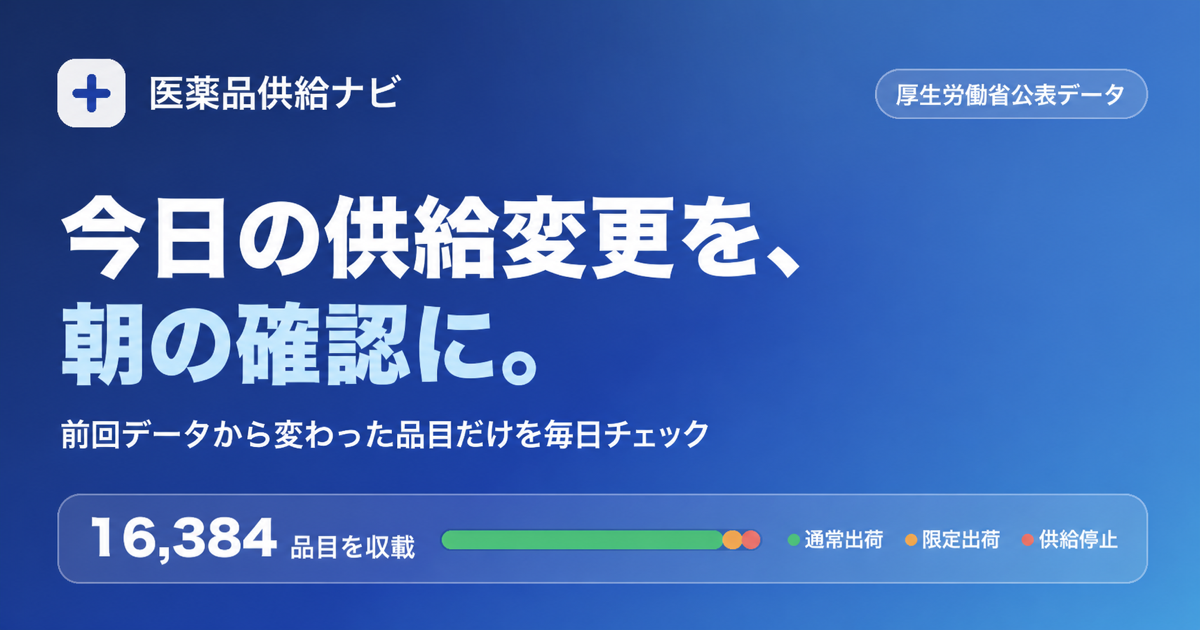
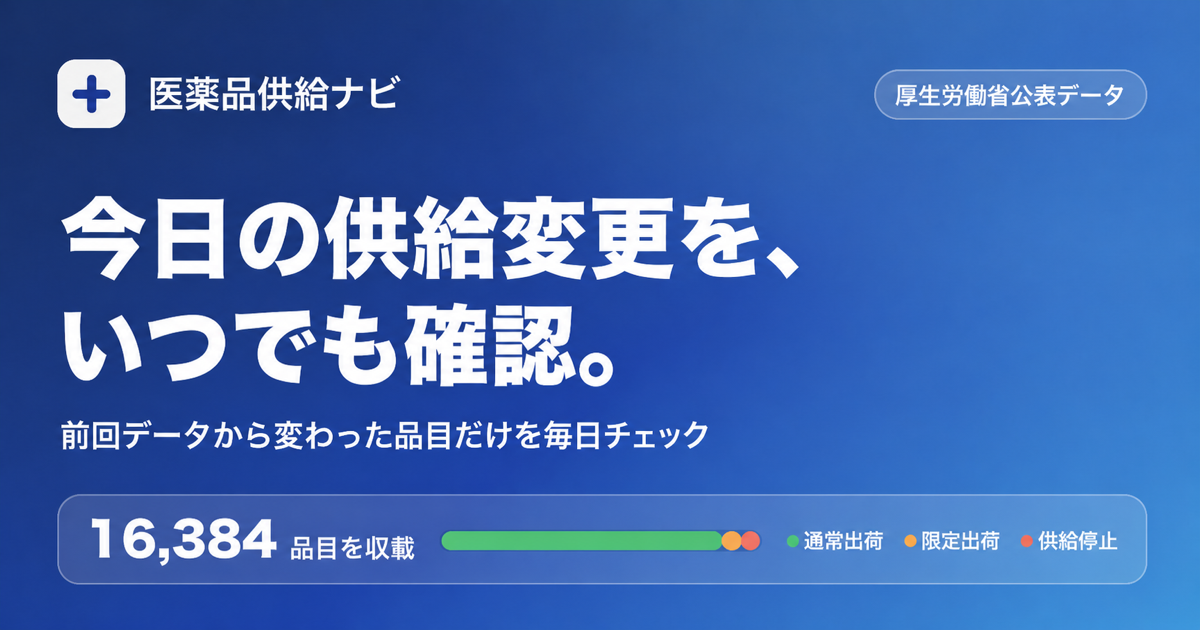
供給変更ページの案内を時間帯に依存しない表現へ変更

diff --git a/updates/2026-06-15.html b/updates/2026-06-15.html
@@ -14,12 +14,12 @@
 <meta property="og:image" content="https://tkiyo1007-eng.github.io/drugs-data/og_updates.png">
 <meta property="og:image:width" content="1200">
 <meta property="og:image:height" content="630">
-<meta property="og:image:alt" content="今日の供給変更を朝の確認に。医薬品供給ナビ">
+<meta property="og:image:alt" content="今日の供給変更をいつでも確認。医薬品供給ナビ">
 <meta name="twitter:card" content="summary_large_image">
 <meta name="twitter:title" content="2026年6月15日に供給状況が変わった医薬品（60品目）｜医薬品供給ナビ">
 <meta name="twitter:description" content="2026年6月15日に厚生労働省公表データ上の供給状況が変わった医療用医薬品60品目の一覧。通常出荷への復帰、限定出荷、供給停止など、前回データとの差分を掲載しています。">
 <meta name="twitter:image" content="https://tkiyo1007-eng.github.io/drugs-data/og_updates.png">
-<meta name="twitter:image:alt" content="今日の供給変更を朝の確認に。医薬品供給ナビ">
+<meta name="twitter:image:alt" content="今日の供給変更をいつでも確認。医薬品供給ナビ">
 <script type="application/ld+json">{"@context":"https://schema.org","@type":"Article","headline":"2026年6月15日に供給状況が変わった医薬品（60品目）｜医薬品供給ナビ","description":"2026年6月15日に厚生労働省公表データ上の供給状況が変わった医療用医薬品60品目の一覧。通常出荷への復帰、限定出荷、供給停止など、前回データとの差分を掲載しています。","datePublished":"2026-06-15","dateModified":"2026-06-15","inLanguage":"ja","mainEntityOfPage":"https://tkiyo1007-eng.github.io/drugs-data/updates/2026-06-15.html","publisher":{"@type":"Organization","name":"医薬品供給ナビ","url":"https://tkiyo1007-eng.github.io/drugs-data/"}}</script>
 <style>
 :root{--blue:#2F63E8;--ink:#14213D;--sub:#5A6B8C;--line:#E1E9F7;--bg:#F4F8FF}

diff --git a/updates/2026-06-19.html b/updates/2026-06-19.html
@@ -14,12 +14,12 @@
 <meta property="og:image" content="https://tkiyo1007-eng.github.io/drugs-data/og_updates.png">
 <meta property="og:image:width" content="1200">
 <meta property="og:image:height" content="630">
-<meta property="og:image:alt" content="今日の供給変更を朝の確認に。医薬品供給ナビ">
+<meta property="og:image:alt" content="今日の供給変更をいつでも確認。医薬品供給ナビ">
 <meta name="twitter:card" content="summary_large_image">
 <meta name="twitter:title" content="2026年6月19日に供給状況が変わった医薬品（32品目）｜医薬品供給ナビ">
 <meta name="twitter:description" content="2026年6月19日に厚生労働省公表データ上の供給状況が変わった医療用医薬品32品目の一覧。通常出荷への復帰、限定出荷、供給停止など、前回データとの差分を掲載しています。">
 <meta name="twitter:image" content="https://tkiyo1007-eng.github.io/drugs-data/og_updates.png">
-<meta name="twitter:image:alt" content="今日の供給変更を朝の確認に。医薬品供給ナビ">
+<meta name="twitter:image:alt" content="今日の供給変更をいつでも確認。医薬品供給ナビ">
 <script type="application/ld+json">{"@context":"https://schema.org","@type":"Article","headline":"2026年6月19日に供給状況が変わった医薬品（32品目）｜医薬品供給ナビ","description":"2026年6月19日に厚生労働省公表データ上の供給状況が変わった医療用医薬品32品目の一覧。通常出荷への復帰、限定出荷、供給停止など、前回データとの差分を掲載しています。","datePublished":"2026-06-19","dateModified":"2026-06-19","inLanguage":"ja","mainEntityOfPage":"https://tkiyo1007-eng.github.io/drugs-data/updates/2026-06-19.html","publisher":{"@type":"Organization","name":"医薬品供給ナビ","url":"https://tkiyo1007-eng.github.io/drugs-data/"}}</script>
 <style>
 :root{--blue:#2F63E8;--ink:#14213D;--sub:#5A6B8C;--line:#E1E9F7;--bg:#F4F8FF}

diff --git a/updates/2026-06-28.html b/updates/2026-06-28.html
@@ -14,12 +14,12 @@
 <meta property="og:image" content="https://tkiyo1007-eng.github.io/drugs-data/og_updates.png">
 <meta property="og:image:width" content="1200">
 <meta property="og:image:height" content="630">
-<meta property="og:image:alt" content="今日の供給変更を朝の確認に。医薬品供給ナビ">
+<meta property="og:image:alt" content="今日の供給変更をいつでも確認。医薬品供給ナビ">
 <meta name="twitter:card" content="summary_large_image">
 <meta name="twitter:title" content="2026年6月28日に供給状況が変わった医薬品（56品目）｜医薬品供給ナビ">
 <meta name="twitter:description" content="2026年6月28日に厚生労働省公表データ上の供給状況が変わった医療用医薬品56品目の一覧。通常出荷への復帰、限定出荷、供給停止など、前回データとの差分を掲載しています。">
 <meta name="twitter:image" content="https://tkiyo1007-eng.github.io/drugs-data/og_updates.png">
-<meta name="twitter:image:alt" content="今日の供給変更を朝の確認に。医薬品供給ナビ">
+<meta name="twitter:image:alt" content="今日の供給変更をいつでも確認。医薬品供給ナビ">
 <script type="application/ld+json">{"@context":"https://schema.org","@type":"Article","headline":"2026年6月28日に供給状況が変わった医薬品（56品目）｜医薬品供給ナビ","description":"2026年6月28日に厚生労働省公表データ上の供給状況が変わった医療用医薬品56品目の一覧。通常出荷への復帰、限定出荷、供給停止など、前回データとの差分を掲載しています。","datePublished":"2026-06-28","dateModified":"2026-06-28","inLanguage":"ja","mainEntityOfPage":"https://tkiyo1007-eng.github.io/drugs-data/updates/2026-06-28.html","publisher":{"@type":"Organization","name":"医薬品供給ナビ","url":"https://tkiyo1007-eng.github.io/drugs-data/"}}</script>
 <style>
 :root{--blue:#2F63E8;--ink:#14213D;--sub:#5A6B8C;--line:#E1E9F7;--bg:#F4F8FF}

diff --git a/updates/2026-07-10.html b/updates/2026-07-10.html
@@ -14,12 +14,12 @@
 <meta property="og:image" content="https://tkiyo1007-eng.github.io/drugs-data/og_updates.png">
 <meta property="og:image:width" content="1200">
 <meta property="og:image:height" content="630">
-<meta property="og:image:alt" content="今日の供給変更を朝の確認に。医薬品供給ナビ">
+<meta property="og:image:alt" content="今日の供給変更をいつでも確認。医薬品供給ナビ">
 <meta name="twitter:card" content="summary_large_image">
 <meta name="twitter:title" content="2026年7月10日に供給状況が変わった医薬品（22品目）｜医薬品供給ナビ">
 <meta name="twitter:description" content="2026年7月10日に厚生労働省公表データ上の供給状況が変わった医療用医薬品22品目の一覧。通常出荷への復帰、限定出荷、供給停止など、前回データとの差分を掲載しています。">
 <meta name="twitter:image" content="https://tkiyo1007-eng.github.io/drugs-data/og_updates.png">
-<meta name="twitter:image:alt" content="今日の供給変更を朝の確認に。医薬品供給ナビ">
+<meta name="twitter:image:alt" content="今日の供給変更をいつでも確認。医薬品供給ナビ">
 <script type="application/ld+json">{"@context":"https://schema.org","@type":"Article","headline":"2026年7月10日に供給状況が変わった医薬品（22品目）｜医薬品供給ナビ","description":"2026年7月10日に厚生労働省公表データ上の供給状況が変わった医療用医薬品22品目の一覧。通常出荷への復帰、限定出荷、供給停止など、前回データとの差分を掲載しています。","datePublished":"2026-07-10","dateModified":"2026-07-10","inLanguage":"ja","mainEntityOfPage":"https://tkiyo1007-eng.github.io/drugs-data/updates/2026-07-10.html","publisher":{"@type":"Organization","name":"医薬品供給ナビ","url":"https://tkiyo1007-eng.github.io/drugs-data/"}}</script>
 <style>
 :root{--blue:#2F63E8;--ink:#14213D;--sub:#5A6B8C;--line:#E1E9F7;--bg:#F4F8FF}

diff --git a/updates/2026-07-23.html b/updates/2026-07-23.html
@@ -14,12 +14,12 @@
 <meta property="og:image" content="https://tkiyo1007-eng.github.io/drugs-data/og_updates.png">
 <meta property="og:image:width" content="1200">
 <meta property="og:image:height" content="630">
-<meta property="og:image:alt" content="今日の供給変更を朝の確認に。医薬品供給ナビ">
+<meta property="og:image:alt" content="今日の供給変更をいつでも確認。医薬品供給ナビ">
 <meta name="twitter:card" content="summary_large_image">
 <meta name="twitter:title" content="2026年7月23日に供給状況が変わった医薬品（19品目）｜医薬品供給ナビ">
 <meta name="twitter:description" content="2026年7月23日に厚生労働省公表データ上の供給状況が変わった医療用医薬品19品目の一覧。通常出荷への復帰、限定出荷、供給停止など、前回データとの差分を掲載しています。">
 <meta name="twitter:image" content="https://tkiyo1007-eng.github.io/drugs-data/og_updates.png">
-<meta name="twitter:image:alt" content="今日の供給変更を朝の確認に。医薬品供給ナビ">
+<meta name="twitter:image:alt" content="今日の供給変更をいつでも確認。医薬品供給ナビ">
 <script type="application/ld+json">{"@context":"https://schema.org","@type":"Article","headline":"2026年7月23日に供給状況が変わった医薬品（19品目）｜医薬品供給ナビ","description":"2026年7月23日に厚生労働省公表データ上の供給状況が変わった医療用医薬品19品目の一覧。通常出荷への復帰、限定出荷、供給停止など、前回データとの差分を掲載しています。","datePublished":"2026-07-23","dateModified":"2026-07-23","inLanguage":"ja","mainEntityOfPage":"https://tkiyo1007-eng.github.io/drugs-data/updates/2026-07-23.html","publisher":{"@type":"Organization","name":"医薬品供給ナビ","url":"https://tkiyo1007-eng.github.io/drugs-data/"}}</script>
 <style>
 :root{--blue:#2F63E8;--ink:#14213D;--sub:#5A6B8C;--line:#E1E9F7;--bg:#F4F8FF}

diff --git a/updates/2026-07-24.html b/updates/2026-07-24.html
@@ -14,12 +14,12 @@
 <meta property="og:image" content="https://tkiyo1007-eng.github.io/drugs-data/og_updates.png">
 <meta property="og:image:width" content="1200">
 <meta property="og:image:height" content="630">
-<meta property="og:image:alt" content="今日の供給変更を朝の確認に。医薬品供給ナビ">
+<meta property="og:image:alt" content="今日の供給変更をいつでも確認。医薬品供給ナビ">
 <meta name="twitter:card" content="summary_large_image">
 <meta name="twitter:title" content="2026年7月24日に供給状況が変わった医薬品（10品目）｜医薬品供給ナビ">
 <meta name="twitter:description" content="2026年7月24日に厚生労働省公表データ上の供給状況が変わった医療用医薬品10品目の一覧。通常出荷への復帰、限定出荷、供給停止など、前回データとの差分を掲載しています。">
 <meta name="twitter:image" content="https://tkiyo1007-eng.github.io/drugs-data/og_updates.png">
-<meta name="twitter:image:alt" content="今日の供給変更を朝の確認に。医薬品供給ナビ">
+<meta name="twitter:image:alt" content="今日の供給変更をいつでも確認。医薬品供給ナビ">
 <script type="application/ld+json">{"@context":"https://schema.org","@type":"Article","headline":"2026年7月24日に供給状況が変わった医薬品（10品目）｜医薬品供給ナビ","description":"2026年7月24日に厚生労働省公表データ上の供給状況が変わった医療用医薬品10品目の一覧。通常出荷への復帰、限定出荷、供給停止など、前回データとの差分を掲載しています。","datePublished":"2026-07-24","dateModified":"2026-07-24","inLanguage":"ja","mainEntityOfPage":"https://tkiyo1007-eng.github.io/drugs-data/updates/2026-07-24.html","publisher":{"@type":"Organization","name":"医薬品供給ナビ","url":"https://tkiyo1007-eng.github.io/drugs-data/"}}</script>
 <style>
 :root{--blue:#2F63E8;--ink:#14213D;--sub:#5A6B8C;--line:#E1E9F7;--bg:#F4F8FF}

diff --git a/updates/2026-07-27.html b/updates/2026-07-27.html
@@ -14,12 +14,12 @@
 <meta property="og:image" content="https://tkiyo1007-eng.github.io/drugs-data/og_updates.png">
 <meta property="og:image:width" content="1200">
 <meta property="og:image:height" content="630">
-<meta property="og:image:alt" content="今日の供給変更を朝の確認に。医薬品供給ナビ">
+<meta property="og:image:alt" content="今日の供給変更をいつでも確認。医薬品供給ナビ">
 <meta name="twitter:card" content="summary_large_image">
 <meta name="twitter:title" content="2026年7月27日に供給状況が変わった医薬品（10品目）｜医薬品供給ナビ">
 <meta name="twitter:description" content="2026年7月27日に厚生労働省公表データ上の供給状況が変わった医療用医薬品10品目の一覧。通常出荷への復帰、限定出荷、供給停止など、前回データとの差分を掲載しています。">
 <meta name="twitter:image" content="https://tkiyo1007-eng.github.io/drugs-data/og_updates.png">
-<meta name="twitter:image:alt" content="今日の供給変更を朝の確認に。医薬品供給ナビ">
+<meta name="twitter:image:alt" content="今日の供給変更をいつでも確認。医薬品供給ナビ">
 <script type="application/ld+json">{"@context":"https://schema.org","@type":"Article","headline":"2026年7月27日に供給状況が変わった医薬品（10品目）｜医薬品供給ナビ","description":"2026年7月27日に厚生労働省公表データ上の供給状況が変わった医療用医薬品10品目の一覧。通常出荷への復帰、限定出荷、供給停止など、前回データとの差分を掲載しています。","datePublished":"2026-07-27","dateModified":"2026-07-27","inLanguage":"ja","mainEntityOfPage":"https://tkiyo1007-eng.github.io/drugs-data/updates/2026-07-27.html","publisher":{"@type":"Organization","name":"医薬品供給ナビ","url":"https://tkiyo1007-eng.github.io/drugs-data/"}}</script>
 <style>
 :root{--blue:#2F63E8;--ink:#14213D;--sub:#5A6B8C;--line:#E1E9F7;--bg:#F4F8FF}

diff --git a/updates/2026-07-28.html b/updates/2026-07-28.html
@@ -14,12 +14,12 @@
 <meta property="og:image" content="https://tkiyo1007-eng.github.io/drugs-data/og_updates.png">
 <meta property="og:image:width" content="1200">
 <meta property="og:image:height" content="630">
-<meta property="og:image:alt" content="今日の供給変更を朝の確認に。医薬品供給ナビ">
+<meta property="og:image:alt" content="今日の供給変更をいつでも確認。医薬品供給ナビ">
 <meta name="twitter:card" content="summary_large_image">
 <meta name="twitter:title" content="2026年7月28日に供給状況が変わった医薬品（11品目）｜医薬品供給ナビ">
 <meta name="twitter:description" content="2026年7月28日に厚生労働省公表データ上の供給状況が変わった医療用医薬品11品目の一覧。通常出荷への復帰、限定出荷、供給停止など、前回データとの差分を掲載しています。">
 <meta name="twitter:image" content="https://tkiyo1007-eng.github.io/drugs-data/og_updates.png">
-<meta name="twitter:image:alt" content="今日の供給変更を朝の確認に。医薬品供給ナビ">
+<meta name="twitter:image:alt" content="今日の供給変更をいつでも確認。医薬品供給ナビ">
 <script type="application/ld+json">{"@context":"https://schema.org","@type":"Article","headline":"2026年7月28日に供給状況が変わった医薬品（11品目）｜医薬品供給ナビ","description":"2026年7月28日に厚生労働省公表データ上の供給状況が変わった医療用医薬品11品目の一覧。通常出荷への復帰、限定出荷、供給停止など、前回データとの差分を掲載しています。","datePublished":"2026-07-28","dateModified":"2026-07-28","inLanguage":"ja","mainEntityOfPage":"https://tkiyo1007-eng.github.io/drugs-data/updates/2026-07-28.html","publisher":{"@type":"Organization","name":"医薬品供給ナビ","url":"https://tkiyo1007-eng.github.io/drugs-data/"}}</script>
 <style>
 :root{--blue:#2F63E8;--ink:#14213D;--sub:#5A6B8C;--line:#E1E9F7;--bg:#F4F8FF}

diff --git a/updates/2026-07-30.html b/updates/2026-07-30.html
@@ -14,12 +14,12 @@
 <meta property="og:image" content="https://tkiyo1007-eng.github.io/drugs-data/og_updates.png">
 <meta property="og:image:width" content="1200">
 <meta property="og:image:height" content="630">
-<meta property="og:image:alt" content="今日の供給変更を朝の確認に。医薬品供給ナビ">
+<meta property="og:image:alt" content="今日の供給変更をいつでも確認。医薬品供給ナビ">
 <meta name="twitter:card" content="summary_large_image">
 <meta name="twitter:title" content="2026年7月30日に供給状況が変わった医薬品（15品目）｜医薬品供給ナビ">
 <meta name="twitter:description" content="2026年7月30日に厚生労働省公表データ上の供給状況が変わった医療用医薬品15品目の一覧。通常出荷への復帰、限定出荷、供給停止など、前回データとの差分を掲載しています。">
 <meta name="twitter:image" content="https://tkiyo1007-eng.github.io/drugs-data/og_updates.png">
-<meta name="twitter:image:alt" content="今日の供給変更を朝の確認に。医薬品供給ナビ">
+<meta name="twitter:image:alt" content="今日の供給変更をいつでも確認。医薬品供給ナビ">
 <script type="application/ld+json">{"@context":"https://schema.org","@type":"Article","headline":"2026年7月30日に供給状況が変わった医薬品（15品目）｜医薬品供給ナビ","description":"2026年7月30日に厚生労働省公表データ上の供給状況が変わった医療用医薬品15品目の一覧。通常出荷への復帰、限定出荷、供給停止など、前回データとの差分を掲載しています。","datePublished":"2026-07-30","dateModified":"2026-07-30","inLanguage":"ja","mainEntityOfPage":"https://tkiyo1007-eng.github.io/drugs-data/updates/2026-07-30.html","publisher":{"@type":"Organization","name":"医薬品供給ナビ","url":"https://tkiyo1007-eng.github.io/drugs-data/"}}</script>
 <style>
 :root{--blue:#2F63E8;--ink:#14213D;--sub:#5A6B8C;--line:#E1E9F7;--bg:#F4F8FF}

diff --git a/updates/2026-06-16.html b/updates/2026-06-16.html
@@ -14,12 +14,12 @@
 <meta property="og:image" content="https://tkiyo1007-eng.github.io/drugs-data/og_updates.png">
 <meta property="og:image:width" content="1200">
 <meta property="og:image:height" content="630">
-<meta property="og:image:alt" content="今日の供給変更を朝の確認に。医薬品供給ナビ">
+<meta property="og:image:alt" content="今日の供給変更をいつでも確認。医薬品供給ナビ">
 <meta name="twitter:card" content="summary_large_image">
 <meta name="twitter:title" content="2026年6月16日に供給状況が変わった医薬品（7品目）｜医薬品供給ナビ">
 <meta name="twitter:description" content="2026年6月16日に厚生労働省公表データ上の供給状況が変わった医療用医薬品7品目の一覧。通常出荷への復帰、限定出荷、供給停止など、前回データとの差分を掲載しています。">
 <meta name="twitter:image" content="https://tkiyo1007-eng.github.io/drugs-data/og_updates.png">
-<meta name="twitter:image:alt" content="今日の供給変更を朝の確認に。医薬品供給ナビ">
+<meta name="twitter:image:alt" content="今日の供給変更をいつでも確認。医薬品供給ナビ">
 <script type="application/ld+json">{"@context":"https://schema.org","@type":"Article","headline":"2026年6月16日に供給状況が変わった医薬品（7品目）｜医薬品供給ナビ","description":"2026年6月16日に厚生労働省公表データ上の供給状況が変わった医療用医薬品7品目の一覧。通常出荷への復帰、限定出荷、供給停止など、前回データとの差分を掲載しています。","datePublished":"2026-06-16","dateModified":"2026-06-16","inLanguage":"ja","mainEntityOfPage":"https://tkiyo1007-eng.github.io/drugs-data/updates/2026-06-16.html","publisher":{"@type":"Organization","name":"医薬品供給ナビ","url":"https://tkiyo1007-eng.github.io/drugs-data/"}}</script>
 <style>
 :root{--blue:#2F63E8;--ink:#14213D;--sub:#5A6B8C;--line:#E1E9F7;--bg:#F4F8FF}

diff --git a/updates/2026-06-17.html b/updates/2026-06-17.html
@@ -14,12 +14,12 @@
 <meta property="og:image" content="https://tkiyo1007-eng.github.io/drugs-data/og_updates.png">
 <meta property="og:image:width" content="1200">
 <meta property="og:image:height" content="630">
-<meta property="og:image:alt" content="今日の供給変更を朝の確認に。医薬品供給ナビ">
+<meta property="og:image:alt" content="今日の供給変更をいつでも確認。医薬品供給ナビ">
 <meta name="twitter:card" content="summary_large_image">
 <meta name="twitter:title" content="2026年6月17日に供給状況が変わった医薬品（6品目）｜医薬品供給ナビ">
 <meta name="twitter:description" content="2026年6月17日に厚生労働省公表データ上の供給状況が変わった医療用医薬品6品目の一覧。通常出荷への復帰、限定出荷、供給停止など、前回データとの差分を掲載しています。">
 <meta name="twitter:image" content="https://tkiyo1007-eng.github.io/drugs-data/og_updates.png">
-<meta name="twitter:image:alt" content="今日の供給変更を朝の確認に。医薬品供給ナビ">
+<meta name="twitter:image:alt" content="今日の供給変更をいつでも確認。医薬品供給ナビ">
 <script type="application/ld+json">{"@context":"https://schema.org","@type":"Article","headline":"2026年6月17日に供給状況が変わった医薬品（6品目）｜医薬品供給ナビ","description":"2026年6月17日に厚生労働省公表データ上の供給状況が変わった医療用医薬品6品目の一覧。通常出荷への復帰、限定出荷、供給停止など、前回データとの差分を掲載しています。","datePublished":"2026-06-17","dateModified":"2026-06-17","inLanguage":"ja","mainEntityOfPage":"https://tkiyo1007-eng.github.io/drugs-data/updates/2026-06-17.html","publisher":{"@type":"Organization","name":"医薬品供給ナビ","url":"https://tkiyo1007-eng.github.io/drugs-data/"}}</script>
 <style>
 :root{--blue:#2F63E8;--ink:#14213D;--sub:#5A6B8C;--line:#E1E9F7;--bg:#F4F8FF}

diff --git a/updates/2026-06-18.html b/updates/2026-06-18.html
@@ -14,12 +14,12 @@
 <meta property="og:image" content="https://tkiyo1007-eng.github.io/drugs-data/og_updates.png">
 <meta property="og:image:width" content="1200">
 <meta property="og:image:height" content="630">
-<meta property="og:image:alt" content="今日の供給変更を朝の確認に。医薬品供給ナビ">
+<meta property="og:image:alt" content="今日の供給変更をいつでも確認。医薬品供給ナビ">
 <meta name="twitter:card" content="summary_large_image">
 <meta name="twitter:title" content="2026年6月18日に供給状況が変わった医薬品（8品目）｜医薬品供給ナビ">
 <meta name="twitter:description" content="2026年6月18日に厚生労働省公表データ上の供給状況が変わった医療用医薬品8品目の一覧。通常出荷への復帰、限定出荷、供給停止など、前回データとの差分を掲載しています。">
 <meta name="twitter:image" content="https://tkiyo1007-eng.github.io/drugs-data/og_updates.png">
-<meta name="twitter:image:alt" content="今日の供給変更を朝の確認に。医薬品供給ナビ">
+<meta name="twitter:image:alt" content="今日の供給変更をいつでも確認。医薬品供給ナビ">
 <script type="application/ld+json">{"@context":"https://schema.org","@type":"Article","headline":"2026年6月18日に供給状況が変わった医薬品（8品目）｜医薬品供給ナビ","description":"2026年6月18日に厚生労働省公表データ上の供給状況が変わった医療用医薬品8品目の一覧。通常出荷への復帰、限定出荷、供給停止など、前回データとの差分を掲載しています。","datePublished":"2026-06-18","dateModified":"2026-06-18","inLanguage":"ja","mainEntityOfPage":"https://tkiyo1007-eng.github.io/drugs-data/updates/2026-06-18.html","publisher":{"@type":"Organization","name":"医薬品供給ナビ","url":"https://tkiyo1007-eng.github.io/drugs-data/"}}</script>
 <style>
 :root{--blue:#2F63E8;--ink:#14213D;--sub:#5A6B8C;--line:#E1E9F7;--bg:#F4F8FF}
